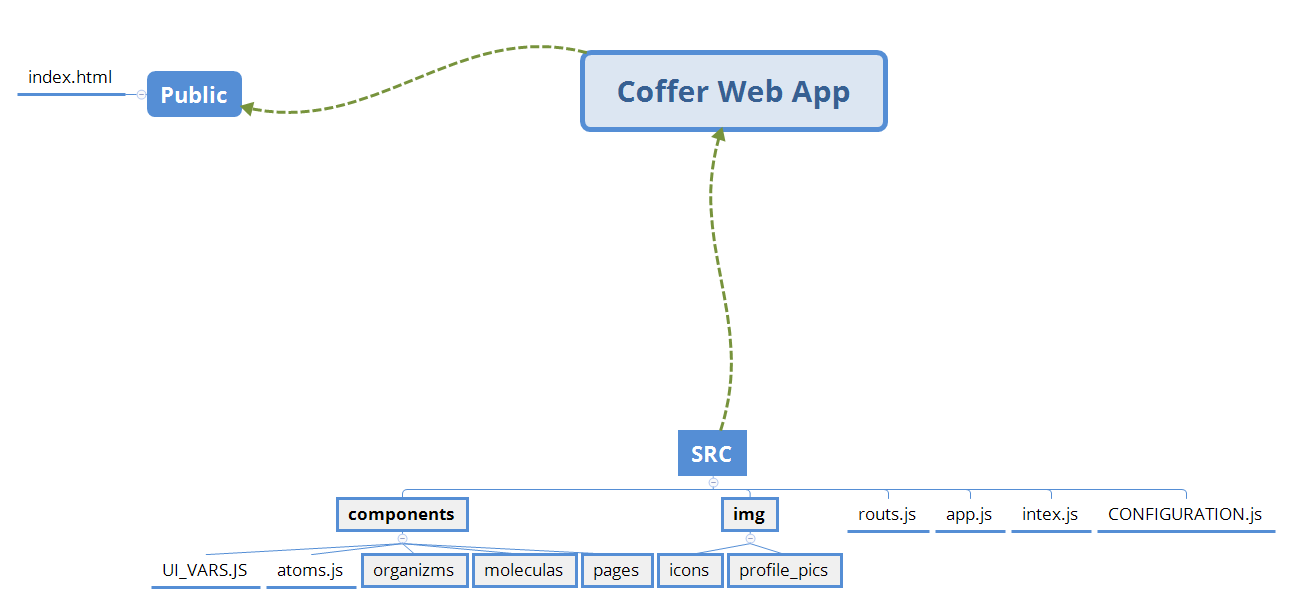
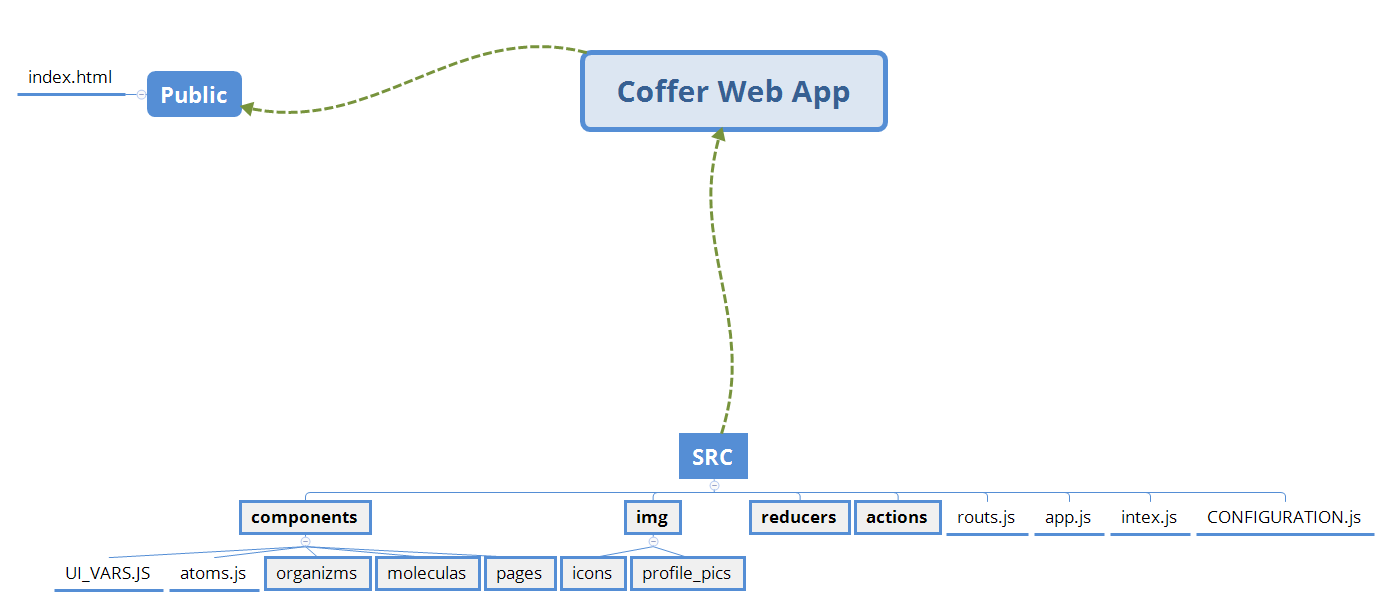
changed architecture and added redux

Changed region(s): [[0.0309, 0.6854, 0.9899, 0.9834], [0.2475, 0.0596, 0.7115, 0.2384], [0.0, 0.1192, 0.2475, 0.2086]]

diff --git a/src/components/pages/home/index.js b/src/components/pages/home/index.js
@@ -1,10 +1,13 @@
 import React, { Component } from 'react';
 import Masonry from 'react-masonry-component';
+import { connect } from 'react-redux';
+import { bindActionCreators } from 'redux';
 
 // my comp
 import './style.css';
 import CreateBudgetButton from '../../moleculas/CreateBudgetButton';
 import BudgetCard from '../../moleculas/budgetCard/index';
+import { printAllBudget } from '../../../actions';
 
 const masonryOptions = {
     transitionDuration: 0.2
@@ -12,17 +15,22 @@ const masonryOptions = {
 
 
 
-class Home extends Component  {
+class Home extends Component  {    
+    // componentWillMount(){
+    //     this.props.printAllBudget()
+    // }
+
    
     render(){
         return(
+            
             <div id="home_container">
             <Masonry 
                     elementType={'div'}
                     options={masonryOptions}
                     disableImagesLoaded={false}
                     updateOnEachImageLoad={false}     
-                >   
+                > {console.log(this.props)}   
                     <div className="card_size">
                         <CreateBudgetButton/>
                     </div>
@@ -54,4 +62,15 @@ class Home extends Component  {
     }     
 }
 
-export default Home;
+const mapStateToProps = (state) => ({
+    reduxData: state
+})
+
+const mapDispatchToProps = (dispatch) => {
+    return bindActionCreators({
+        printAllBudget
+    }, dispatch)
+}
+
+
+export default connect(mapStateToProps, mapDispatchToProps)(Home);

diff --git a/src/index.js b/src/index.js
@@ -1,12 +1,19 @@
 import React from 'react';
 import ReactDOM from 'react-dom';
 import { BrowserRouter } from 'react-router-dom';
+import { Provider } from 'react-redux';
+import { applyMiddleware, createStore } from 'redux';
 
 // my comp
 import App from './App';
+import rootReducer from './reducers'
+
+const createStoreWithMiddleware = applyMiddleware()(createStore);
 
 ReactDOM.render(
-    <BrowserRouter>
-        <App/>
-    </BrowserRouter>
+    <Provider store={createStoreWithMiddleware(rootReducer)}>
+        <BrowserRouter>
+            <App/>
+        </BrowserRouter>
+    </Provider>
     ,document.getElementById('root'));

diff --git a/src/reducers/budgetReducer.js b/src/reducers/budgetReducer.js
@@ -1,0 +1,11 @@
+export function budgetReducer(state = [], action){
+    switch (action.type) {
+        case 'PRINT_ALL_BUDGETS':
+                return {
+                    ...state,
+                    budgets: action.payload
+                }
+    
+        default: return state;
+    }
+} 

diff --git a/src/actions/index.js b/src/actions/index.js
@@ -1,0 +1,14 @@
+function printAllBudget(){
+    return{
+        type: 'PRINT_ALL_BUDGETS',
+        payload: [
+            {id: 1, name: 'budget name'},
+            {id: 2, name: 'budget name'},
+            {id: 3, name: 'budget name'}
+        ]
+    }
+}
+
+export {
+    printAllBudget
+}

diff --git a/src/reducers/index.js b/src/reducers/index.js
@@ -1,0 +1,12 @@
+import { combineReducers } from 'redux';
+
+
+// my reducers
+import { budgetReducer } from './budgetReducer';
+
+
+const rootReducer = combineReducers({
+    budgetReducer
+})
+
+export default rootReducer;
